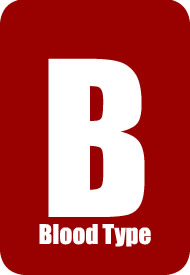
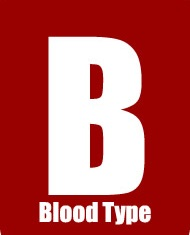
images added and program running correctly, maybe room for improvement

diff --git a/myPatients/MainWindow.xaml b/myPatients/MainWindow.xaml
@@ -22,6 +22,6 @@
         </GroupBox>
         <ListBox Name="lbxPatients" Background="BlanchedAlmond" Foreground="DarkRed" Margin="10" FontFamily="calibri" FontSize="20" MinHeight="150"></ListBox>
         <TextBlock Name="Notice1" Margin="10" Foreground="DarkRed" FontFamily="calibri" FontSize="24"></TextBlock>
-        <Image Name="imgBlood" Stretch="Uniform" Margin="1"></Image>
+        <Image Name="imgBlood" Stretch="Uniform" MaxHeight="250" Margin="1" HorizontalAlignment="Left"></Image>
     </StackPanel>
 </Window>

diff --git a/myPatients/MainWindow.xaml.cs b/myPatients/MainWindow.xaml.cs
@@ -30,7 +30,7 @@ namespace myPatients
     {
         const string DEFAULT_BLOOD_FILENAME = "noType";
 
-        Random rnd = new Random(System.Environment.TickCount);
+        //Random rnd = new Random(System.Environment.TickCount);
 
         ObservableCollection<Patient> group = new ObservableCollection<Patient>();
         ObservableCollection<Patient> filteredGroup = new ObservableCollection<Patient>();
@@ -96,38 +96,38 @@ namespace myPatients
                 {
                     filteredGroup.Add(patient);
                     Notice1.Text = "BLOOD TYPE A";
-                    //upDateBloodImage(Convert.ToString(blood));
+                    upDateBloodImage(Convert.ToString(blood));
                 }
                 else if (patient.Blood == BloodGroup.AB && blood == 'Y')
                 {
                     filteredGroup.Add(patient);
                     Notice1.Text = "BLOOD TYPE AB";
-                    //upDateBloodImage(Convert.ToString(blood));
+                    upDateBloodImage(Convert.ToString(blood));
                 }
                 else if (patient.Blood == BloodGroup.B && blood == 'B')
                 {
                     filteredGroup.Add(patient);
                     Notice1.Text = "BLOOD TYPE B";
-                    //upDateBloodImage(Convert.ToString(blood));
+                    upDateBloodImage(Convert.ToString(blood));
                 }
                 else if (blood == 'Z')
                 {
                     filteredGroup.Add(patient);
                     Notice1.Text = "ALL BLOOD TYPES";
-                    //upDateBloodImage();
+                    upDateBloodImage();
                 }
             }
         }
 
-        //private void upDateBloodImage(string filename="")
-        //{
-        //    if (String.IsNullOrEmpty(filename)) filename = DEFAULT_BLOOD_FILENAME;
-        //    BitmapImage bm = new BitmapImage();
-        //    bm.BeginInit();
-        //    var path = "pack://application:,,,/myPatients;component/Images" + filename + ".jpg";
-        //    bm.UriSource = new Uri(path);
-        //    imgBlood.Source = bm;
-        //    bm.EndInit();
-        //}
+        private void upDateBloodImage(string filename = "")
+        {
+            if (String.IsNullOrEmpty(filename)) filename = DEFAULT_BLOOD_FILENAME;
+            BitmapImage bm = new BitmapImage();
+            bm.BeginInit();
+            var path = "pack://application:,,,/myPatients;component/Images/" + filename + ".jpg";
+            bm.UriSource = new Uri(path);
+            imgBlood.Source = bm;
+            bm.EndInit();
+        }
     }  // end class
 }  // end ns

diff --git a/myPatients/obj/Debug/MainWindow.g.i.cs b/myPatients/obj/Debug/MainWindow.g.i.cs
@@ -1,4 +1,4 @@
-#pragma checksum "..\..\MainWindow.xaml" "{406ea660-64cf-4c82-b6f0-42d48172a799}" "F6FBD38EE4669A2E7E12A93DF23B9798"
+#pragma checksum "..\..\MainWindow.xaml" "{406ea660-64cf-4c82-b6f0-42d48172a799}" "8758FD4F1B7FC6E5B095F070C95F7E81"
 //------------------------------------------------------------------------------
 // <auto-generated>
 //     This code was generated by a tool.
